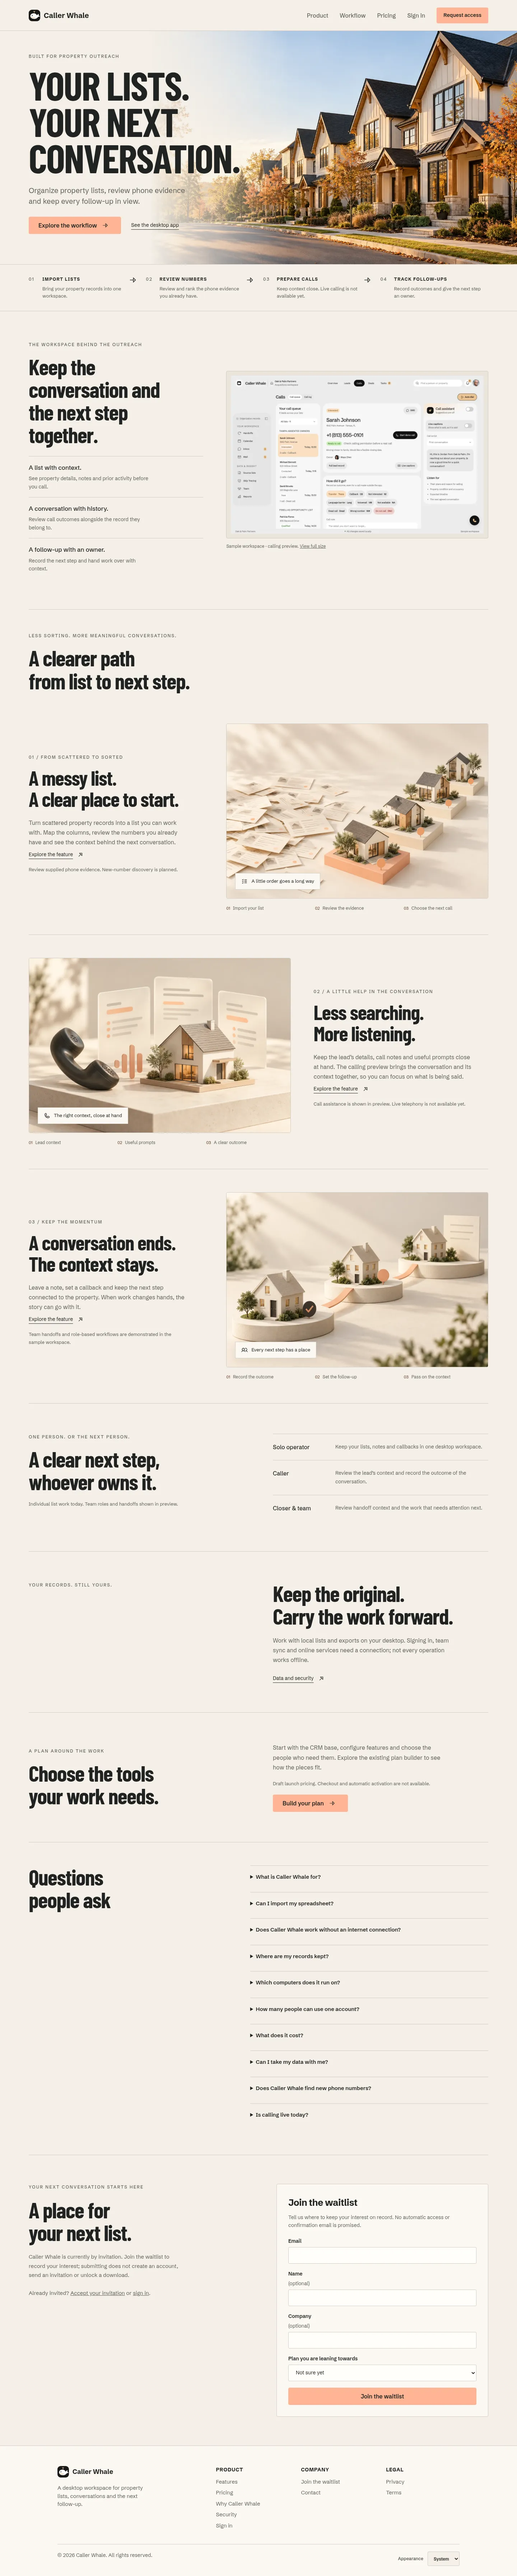
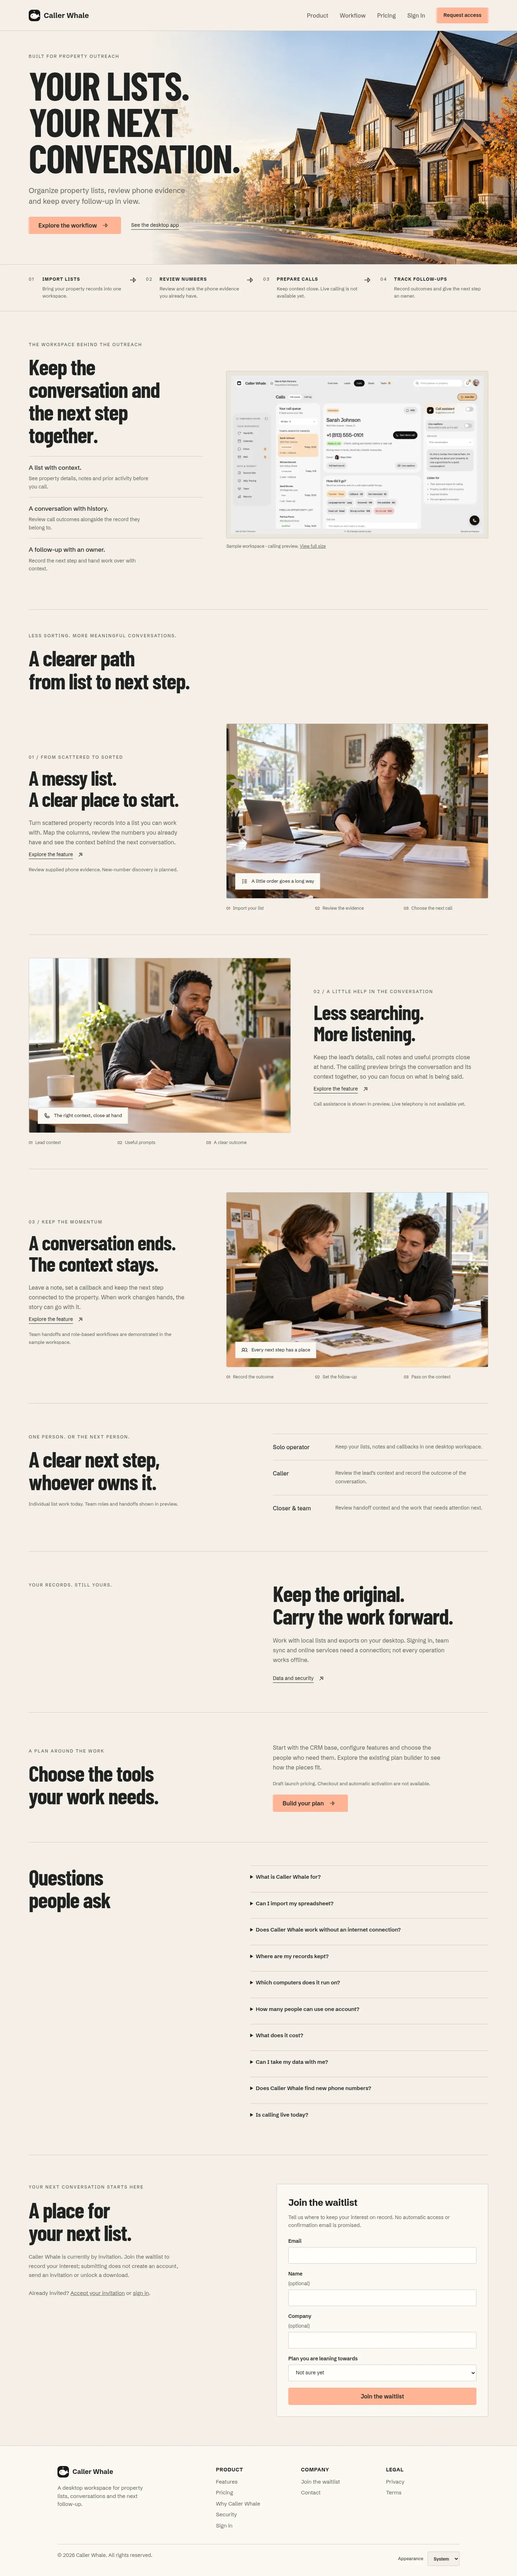
Replace 3D benefit illustrations with human work scenes

Changed region(s): [[0.0312, 0.28, 0.9688, 0.529]]

diff --git a/Caller Whale CRM/landing/web/src/pages.jsx b/Caller Whale CRM/landing/web/src/pages.jsx
@@ -140,7 +140,7 @@ export function Home() {
             title: "A messy list.\nA clear place to start.",
             text: "Turn scattered property records into a list you can work with. Map the columns, review the numbers you already have and see the context behind the next conversation.",
             detail: "Review supplied phone evidence. New-number discovery is planned.",
-            image: "data-to-order", alt: "Scattered paper records give way to an ordered row of miniature property models.",
+            image: "list-work", alt: "An operator sorting loose property records into organized groups beside her notebook.",
             signals: ["Import your list", "Review the evidence", "Choose the next call"],
             badge: "A little order goes a long way", icon: "ListChecks", anchor: "skip",
           },
@@ -149,7 +149,7 @@ export function Home() {
             title: "Less searching.\nMore listening.",
             text: "Keep the lead’s details, call notes and useful prompts close at hand. The calling preview brings the conversation and its context together, so you can focus on what is being said.",
             detail: "Call assistance is shown in preview. Live telephony is not available yet.",
-            image: "call-assistance", alt: "A charcoal phone handset, a miniature house and a calm arrangement of context cards.",
+            image: "supported-call", alt: "A caller listening through a headset with his notes and laptop close at hand.",
             signals: ["Lead context", "Useful prompts", "A clear outcome"],
             badge: "The right context, close at hand", icon: "Phone", anchor: "dialer",
           },
@@ -158,7 +158,7 @@ export function Home() {
             title: "A conversation ends.\nThe context stays.",
             text: "Leave a note, set a callback and keep the next step connected to the property. When work changes hands, the story can go with it.",
             detail: "Team handoffs and role-based workflows are demonstrated in the sample workspace.",
-            image: "follow-through", alt: "Miniature houses along connected platforms, with one completed step and another waiting ahead.",
+            image: "team-handoff", alt: "Two colleagues sharing a notebook and discussing the next follow-up.",
             signals: ["Record the outcome", "Set the follow-up", "Pass on the context"],
             badge: "Every next step has a place", icon: "Users", anchor: "crm",
           },

diff --git a/Caller Whale CRM/landing/web/src/studio.css b/Caller Whale CRM/landing/web/src/studio.css
@@ -257,7 +257,7 @@ body {
 .product-evidence a:focus-visible {
   outline-offset: 4px;
 }
-/* Architectural concept scenes sell the workflow without repeating app UI. */
+/* Human work scenes explain the benefits without repeating app UI. */
 .studio-stories {
   border-top: 1px solid var(--line);
 }

diff --git a/Caller Whale CRM/landing/web/assets.md b/Caller Whale CRM/landing/web/assets.md
@@ -14,12 +14,16 @@ Copy is in Home (`src/pages.jsx`), shared FAQ/metadata (`src/content.js`), and t
 
 These assets and local checks do not constitute deployment approval or proof that calling, team sync, notification delivery, or billing are live.
 
-## Benefit illustrations
+## Human benefit photography
 
-Three original OpenAI Image Gen illustrations created on 2026-11-01, optimized as 1536 × 1024 WebP assets. These are marketing metaphors, not app captures, real listings, or proof of live telephony. Copy, sequence labels and badges remain live HTML.
+The earlier 3D model-house illustrations were replaced at the owner's request. Houses remain in the hero; the three benefit sections now use candid human work scenes.
 
-- `public/images/data-to-order.webp`: scattered paper records resolving into an ordered row of architectural property models. Original: `/workspace/generated_images/exec-17ec1009-0134-4795-8093-9d0c3f81deb0.png`.
-- `public/images/call-assistance.webp`: a handset, property model and context cards illustrating keeping useful information close while listening. Original: `/workspace/generated_images/exec-20796d9a-40e1-4473-a88a-9ad066c22208.png`.
-- `public/images/follow-through.webp`: connected property-model platforms illustrating continuity between an outcome and the next follow-up. Original: `/workspace/generated_images/exec-d9335276-166d-46d4-af0c-1050e3b9eeb1.png`.
+Original OpenAI Image Gen assets created 2026-11-01, optimized to 1536 × 1024 WebP:
 
-All three share the selected ivory/charcoal/peach architectural direction and are lazy-loaded with reserved dimensions. The homepage still includes exactly one genuine app screenshot in workspace proof.
+- `public/images/list-work.webp`: a woman organizing loose property records into clear groups. Original `/workspace/generated_images/exec-752387b8-04f3-4666-afd2-2715a806f9a1.png`.
+- `public/images/supported-call.webp`: a man listening on a headset with notes and a laptop close by. Original `/workspace/generated_images/exec-1a97f87a-583e-4ba3-a324-cd10cd2120ae.png`.
+- `public/images/team-handoff.webp`: colleagues sharing a notebook and discussing the next step. Original `/workspace/generated_images/exec-d8872df9-4ac1-4f8b-8882-f5d48df1f4f3.png`.
+
+These depict fictional people in illustrative situations, not actual customers or testimonials. Screens face away and contain no customer records. They do not demonstrate live calling or shipped team synchronization. Preview boundaries remain in adjacent copy.
+
+Photos are lazy-loaded with reserved dimensions and meaningful alt text. Captions, sequence labels and badges remain live HTML. The homepage retains exactly one actual app screenshot. Superseded 3D assets were removed from the public build; their original generations remain outside the checkout and their history remains in Git.

diff --git a/Caller Whale CRM/landing/web/design-qa.md b/Caller Whale CRM/landing/web/design-qa.md
@@ -46,3 +46,9 @@ Revalidated the build and existing tests, then checked one app image, three stor
 Owner clarified that removing app screenshots should lead to designed marketing scenes rather than text-only sections. Replaced the three plain text columns with alternating editorial compositions containing original architectural illustrations: scattered records to an ordered list; a call with useful context; and a connected follow-up path. Kept the actual app image count at one. Preview-only call assistance and team behavior remain clearly described.
 
 Build and pricing tests passed. Browser checks decoded all three illustration assets, verified the single app image, nine live-text sequence labels, feature links and absence of overflow/runtime errors at 360/390/768/1024/1440px in light/dark. Desktop/mobile light/dark captures refreshed in `qa/`. Reviewed the illustration assets against the existing warm architectural direction. Concept scenes are not represented as actual UI.
+
+## Human photography revision (current)
+
+Owner selected natural human problem-solving moments over 3D illustrations. Replaced all three benefit illustrations with generated editorial photographs of organizing records, listening on a supported call, and passing context to a colleague. Preserved the hero architecture, layout, HTML captions, preview boundaries and single actual app screenshot. Removed superseded 3D assets from the public build.
+
+Reviewed the generated people scenes and refreshed desktop/mobile review captures. Faces and work gestures remain visible; badges sit over the quiet lower portions of photos. Client/SSR build, all 13 prerendered outputs and existing pricing test passed. Chromium checks passed at 360/390/768/1024/1440px in both themes: three decoded photos, one actual app image, working feature destinations, no page overflow or runtime exceptions. Final result remains passed for this local homepage scope; no deployment or authenticated-service verification is implied.

diff --git a/Caller Whale CRM/landing/web/AGENTS.md b/Caller Whale CRM/landing/web/AGENTS.md
@@ -2,4 +2,4 @@
 
 The homepage should show the app only once or twice at most. Keep one main product screenshot by default; use the remaining sections for the business story rather than repeating app captures or copying the desktop UI.
 
-Use custom visual storytelling for the benefits, not text-only replacement sections: architectural/property illustrations should explain scattered data becoming an ordered outreach list, easier call assistance, and clear follow-ups. Keep these marketing concepts distinct from actual app screenshots and be honest about preview-only capabilities.
+Use custom visual storytelling for the benefits, not text-only replacement sections: natural, candid human photography should show an operator organizing records, a caller with useful context, and colleagues handing off the next step. Keep houses mainly in the hero; avoid miniature houses, 3D models and abstract sculptural scenes in the benefit sections. Keep these marketing concepts distinct from actual app screenshots and be honest about preview-only capabilities.
